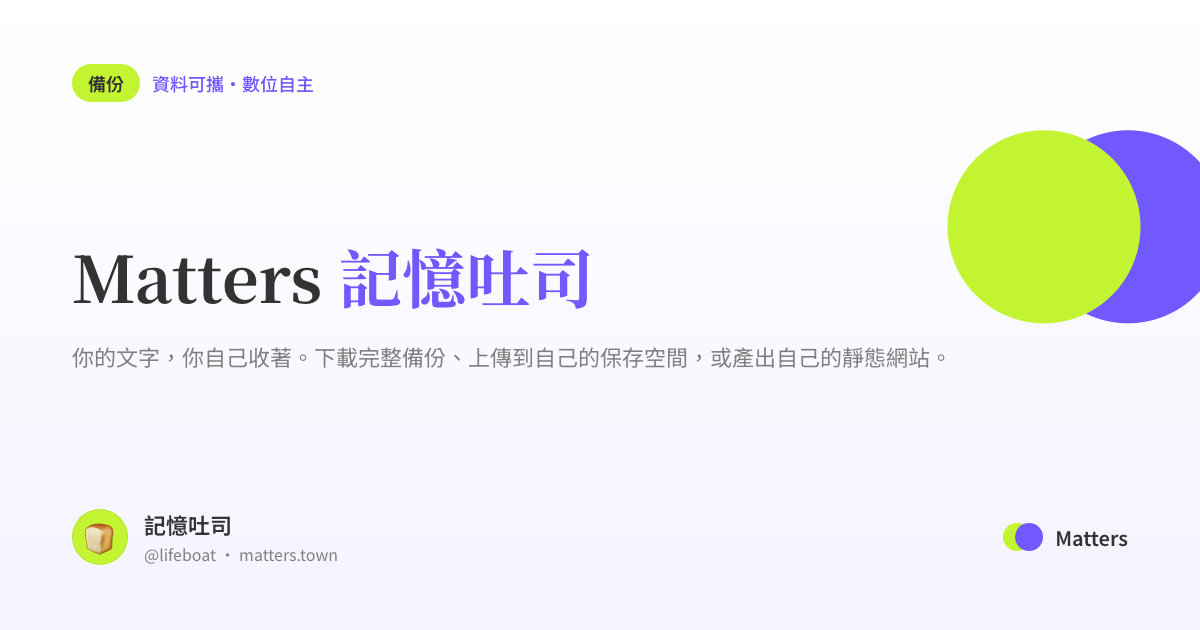
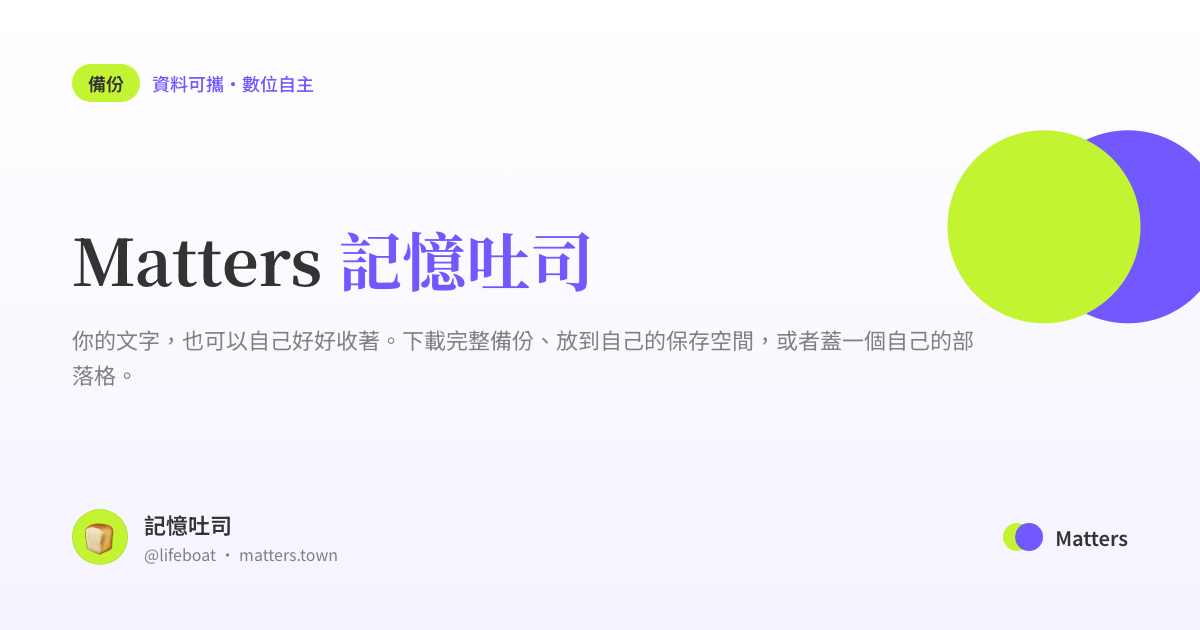
Update launch copy

Changed region(s): [[0.0617, 0.3619, 0.8325, 0.6333]]

diff --git a/packages/landing/src/index.html b/packages/landing/src/index.html
@@ -3,19 +3,19 @@
 <head>
   <meta charset="utf-8" />
   <meta name="viewport" content="width=device-width, initial-scale=1, viewport-fit=cover" />
-  <title>Matters 記憶吐司 · 你的文字，你自己收著</title>
-  <meta name="description" content="把你的 matters.town 文章備份成壓縮檔、放到自己的保存空間，或做成一個自己的網站。備份是好習慣，數位自主權的第一步。" />
+  <title>Matters 記憶吐司 · 你的文字，也可以自己好好收著</title>
+  <meta name="description" content="把你的 matters.town 文章備份成壓縮檔、放到自己的保存空間，或做成一個自己的部落格。備份是一種好習慣，數位自主權的第一步。" />
   <meta property="og:title" content="Matters 記憶吐司" />
-  <meta property="og:description" content="你的文字，你自己收著。一鍵備份你的 matters.town 文章。" />
+  <meta property="og:description" content="你的文字，也可以自己好好收著。一鍵備份你的 matters.town 文章。" />
   <meta property="og:type" content="website" />
   <meta property="og:url" content="https://lifeboat.matters.town" />
   <meta property="og:image" content="https://lifeboat.matters.town/assets/og-image.png" />
   <meta property="og:image:width" content="1200" />
   <meta property="og:image:height" content="630" />
-  <meta property="og:image:alt" content="Matters 記憶吐司：你的文字，你自己收著。" />
+  <meta property="og:image:alt" content="Matters 記憶吐司：你的文字，也可以自己好好收著。" />
   <meta name="twitter:card" content="summary_large_image" />
   <meta name="twitter:title" content="Matters 記憶吐司" />
-  <meta name="twitter:description" content="你的文字，你自己收著。一鍵備份你的 matters.town 文章。" />
+  <meta name="twitter:description" content="你的文字，也可以自己好好收著。一鍵備份你的 matters.town 文章。" />
   <meta name="twitter:image" content="https://lifeboat.matters.town/assets/og-image.png" />
   <link rel="canonical" href="https://lifeboat.matters.town" />
   <link rel="icon" type="image/svg+xml" href="./assets/favicon.svg" />
@@ -43,34 +43,34 @@
   <main>
     <section class="hero">
       <div class="wrap">
-        <div class="kicker">Matters 記憶吐司 · Your writing, your copy</div>
+        <div class="kicker">Your writing matters</div>
         <h1>
           你的文字，<br />
-          <strong>你自己收著</strong>。
+          <strong>也可以自己好好收著</strong>。
         </h1>
         <p class="lede">
           Matters 記憶吐司是一個給 matters.town 寫作者的備份工具。<br />
-          你可以下載完整備份、放到自己的保存空間，或蓋一個自己的網站。
+          下載完整備份、放到自己的保存空間，或者蓋一個自己的部落格，都可以馬上完成。
         </p>
         <div class="cta-row">
           <a class="btn btn-primary" href="/app/?flow=a">🍞 立刻備份我的文章</a>
           <a class="btn btn-ghost" href="#flows">看三種方式</a>
         </div>
         <p class="microcopy">
-          全部在你的瀏覽器裡進行 · 不需要 Matters 登入 · 開源可檢查
+          全部都在你的瀏覽器裡進行 · 不需要 Matters 登入 · 開放原始碼
         </p>
       </div>
     </section>
 
     <section id="why" class="why">
       <div class="wrap">
-        <h2>備份是好習慣 🌿</h2>
+        <h2>備份是一種好習慣 🌿</h2>
         <div class="why-grid">
           <div>
             <div class="why-icon" aria-hidden="true">🪶</div>
             <h3>你寫的字，永遠是你的</h3>
             <p>
-              備份不是因為今天會出事，而是把作品多留一份在自己手上。
+              不是因為怕出事才需要備份，備份是把作品多留一份，放在自己手上。
               就像照片會存在手機和雲端，文章也可以有自己的副本。
             </p>
           </div>
@@ -86,8 +86,8 @@
             <div class="why-icon" aria-hidden="true">🛟</div>
             <h3>明天的 plan B</h3>
             <p>
-              不是因為今天有事，而是因為任何寫作者都該有一份隨身的備份。
-              先做起來，比之後才補做容易得多。
+              網際網路比想像中的脆弱，因此任何寫作者都該有一份備份。
+              先備起來，比之後才補救，容易得多。
             </p>
           </div>
         </div>
@@ -116,7 +116,7 @@
             <div class="flow-tag">B · 10 分鐘</div>
             <h3>放到自己的保存空間</h3>
             <p>
-              如果你想多留一份在線上，可以把分享頁和完整備份放到自己的 Pinata。
+              如果你想多留一份在線上，可以把分享頁和完整備份放到自己的分散式空間 Pinata。
             </p>
             <div class="flow-artifact">
               Pinata 是一個 IPFS 檔案保存服務；工具會一步一步帶你拿臨時門票。
@@ -126,9 +126,9 @@
 
           <a class="flow-card" href="/app/?flow=c">
             <div class="flow-tag">C · 5–10 分鐘</div>
-            <h3>蓋一個自己的站</h3>
+            <h3>蓋一個自己的部落格</h3>
             <p>
-              把文章做成一包網站檔案，拖到 Cloudflare 後按 Deploy，就會有自己的文章站。
+              把文章做成一包網站檔案，拖到 Cloudflare 後按 Deploy，就會有自己的部落格。
             </p>
             <div class="flow-artifact">
               不需要 GitHub、不需要寫程式；Cloudflare 會給你一個可分享網址。
@@ -142,8 +142,8 @@
             <div class="flow-tag">補充 · 1 分鐘</div>
             <h3>還不想完整備份？先收文章地址簿</h3>
             <p>
-              這不是備份全文，而是把既有的 Matters 文章連結和 IPFS 連結打包下來。
-              如果你只是想先掌握「我的文章在哪裡」，可以從這一步開始。
+              如果不想打包全文也沒關係，Matters 本來就有免費替您將文章保存到備份檔案系統 IPFS。
+              你可以先把 Matters 連結與 IPFS 指紋連結打包下來，哪天網站失效了也不用怕。
             </p>
           </div>
           <a class="flow-helper-link" href="/app/?flow=d">保存文章地址簿 →</a>
@@ -263,7 +263,7 @@
             <strong>對外重新發布原文</strong>：請保留作者署名與原始來源連結，且不得商用。
           </li>
           <li>
-            <strong>改寫、續寫、翻譯、餵 AI 訓練 / 微調 / RAG</strong>：CC BY-NC-ND 與 arr
+            <strong>改寫、續寫、翻譯、餵 AI 訓練 / 微調 / RAG</strong>：CC BY-NC-ND 與 All Rights Reserved
             授權的文章<strong>禁止</strong>；CC0 不受限。請逐篇確認。
           </li>
         </ul>
@@ -279,8 +279,8 @@
         <h2>透明 · 可驗證 · 你說了算</h2>
         <ul class="trust-list">
           <li><strong>完全開源</strong>：<a href="https://github.com/thematters/matters-lifeboat" rel="noopener">thematters/matters-lifeboat</a></li>
-          <li><strong>在你的瀏覽器裡完成</strong>：抓取、整理、打包都在你的分頁裡進行</li>
-          <li><strong>不保存你的資料</strong>：我們沒有資料庫可以存你的文章或門票</li>
+          <li><strong>在你的瀏覽器裡完成</strong>：抓取、整理、打包都在你的分頁裡進行，不用擔心平台監控</li>
+          <li><strong>資料可攜</strong>：我們認為資料可以無痛轉移到不同平台，是市民的基本權利</li>
           <li><strong>臨時門票不留存</strong>：Pinata 的門票只活在這個分頁，關掉就清空</li>
           <li><strong>也適合交給 AI agent</strong>：下載檔會附上機器可讀的操作說明</li>
         </ul>

diff --git a/packages/app/index.html b/packages/app/index.html
@@ -4,18 +4,18 @@
     <meta charset="UTF-8" />
     <meta name="viewport" content="width=device-width, initial-scale=1" />
     <title>Matters 記憶吐司</title>
-    <meta name="description" content="把你的 matters.town 文章下載成完整備份、放到自己的保存空間，或做成自己的網站。" />
+    <meta name="description" content="把你的 matters.town 文章下載成完整備份、放到自己的保存空間，或做成自己的部落格。" />
     <meta property="og:title" content="Matters 記憶吐司" />
-    <meta property="og:description" content="你的文字，你自己收著。一鍵備份你的 matters.town 文章。" />
+    <meta property="og:description" content="你的文字，也可以自己好好收著。一鍵備份你的 matters.town 文章。" />
     <meta property="og:type" content="website" />
     <meta property="og:url" content="https://lifeboat.matters.town/app/" />
     <meta property="og:image" content="https://lifeboat.matters.town/assets/og-image.png" />
     <meta property="og:image:width" content="1200" />
     <meta property="og:image:height" content="630" />
-    <meta property="og:image:alt" content="Matters 記憶吐司：你的文字，你自己收著。" />
+    <meta property="og:image:alt" content="Matters 記憶吐司：你的文字，也可以自己好好收著。" />
     <meta name="twitter:card" content="summary_large_image" />
     <meta name="twitter:title" content="Matters 記憶吐司" />
-    <meta name="twitter:description" content="你的文字，你自己收著。一鍵備份你的 matters.town 文章。" />
+    <meta name="twitter:description" content="你的文字，也可以自己好好收著。一鍵備份你的 matters.town 文章。" />
     <meta name="twitter:image" content="https://lifeboat.matters.town/assets/og-image.png" />
     <link rel="icon" type="image/svg+xml" href="/app/favicon.svg" />
     <link rel="stylesheet" href="/matters-ds/tokens.css" />

diff --git a/packages/app/src/flows/FlowA.tsx b/packages/app/src/flows/FlowA.tsx
@@ -100,7 +100,7 @@ export function FlowA({ session, setSession, onGotoB, onGotoC, onBack }: Props) 
 
       <div className="card">
         <h2>🍞 備份流程</h2>
-        <p>輸入你或任何 Matters 帳號，會整理所有公開文章和圖片，打包成一個壓縮檔。</p>
+        <p>輸入你的 Matters 帳號，會整理所有公開文章和圖片，打包成一個壓縮檔。</p>
 
         <div style={{ marginBottom: 12 }}>
           <TextField
@@ -111,7 +111,7 @@ export function FlowA({ session, setSession, onGotoB, onGotoC, onBack }: Props) 
             onKeyDown={(e) => e.key === "Enter" && !running && void run()}
             helperText={
               <>
-                支援 <code>@mashbean</code>、<code>mashbean</code>、或整條 matters.town 網址
+                我們支援比如 <code>@mashbean</code>、<code>mashbean</code> 這類 ID、或整條 matters.town 網址
               </>
             }
           />
@@ -195,7 +195,7 @@ export function FlowA({ session, setSession, onGotoB, onGotoC, onBack }: Props) 
           </div>
 
           <div className="callout success" style={{ marginTop: 20 }}>
-            <strong>🌿 備份是好習慣。</strong>
+            <strong>🌿 備份是一種好習慣。</strong>
             你可以之後隨時再回來跑一次，每次都會是一份全新、當下狀態的快照。
           </div>
         </div>

diff --git a/packages/core/src/zip.ts b/packages/core/src/zip.ts
@@ -174,9 +174,9 @@ function buildReadme(m: Manifest, failures: Array<{ url: string; error: string }
     `- \`https://ipfs.io/ipfs/<cid>/\``,
     ``,
     `**要先做最輕量保存，可用 Matters 記憶吐司的「文章地址簿」流程產生一張 IPFS 連結清單。`,
-    `要多放一份到線上保存空間，則用 Pinata 流程，把可分享的文章地址頁和完整備份 ZIP 一起上傳到你自己的 Pinata public IPFS。**`,
+    `要多放一份到線上保存空間，則用 Pinata 流程，把可分享的文章地址頁和完整備份 ZIP 一起上傳到你自己的分散式空間 Pinata。**`,
     ``,
-    `## 做成自己的網站`,
+    `## 做成自己的部落格`,
     ``,
     `最簡單的方式：把本 zip 上傳到 [Matters 記憶吐司架站流程](https://lifeboat.matters.town/app/?flow=c)，`,
     `產出純 HTML/CSS 的 \`site.zip\`。解壓縮後把整個資料夾拖到 Cloudflare Workers & Pages 的 Upload your static files 即可，`,
@@ -253,7 +253,7 @@ function buildAgentInstructions(m: Manifest): string {
     `## 給使用者的白話說明（你可以複述）`,
     ``,
     `- 這份 zip 是你的 matters 文章的完整備份，**無需任何雲端服務**即可本機瀏覽（用任意 Markdown 閱讀器開 \`posts/\` 裡任一檔）`,
-    `- 若你想做一個屬於自己的網站，告訴我「請幫我用這份備份部署到 Cloudflare Pages」`,
+    `- 若你想做一個屬於自己的部落格，告訴我「請幫我用這份備份部署到 Cloudflare Pages」`,
     `- 若你只想先保存文章地址，告訴我「請幫我產生 文章地址簿」`,
     `- 若你想讓這些文章在 IPFS 上更好分享與保存，告訴我「請幫我把文章地址頁和 backup.zip 上傳到 Pinata」`,
     ``,

diff --git a/packages/app/src/flows/FlowD.tsx b/packages/app/src/flows/FlowD.tsx
@@ -85,8 +85,8 @@ export function FlowD({ onBack }: Props) {
       <div className="card">
         <h2>🔖 保存文章地址簿</h2>
         <p>
-          如果你現在不想下載完整文章與圖片，可以先保存一份很小的「文章地址簿」。
-          它會列出每篇文章的 Matters 原文連結，以及可點開的 IPFS 連結。
+          如果不想打包全文也沒關係，Matters 本來就有免費替您將文章保存到備份檔案系統 IPFS。
+          你可以先把 Matters 連結與 IPFS 指紋連結打包下來，哪天網站失效了也不用怕。
         </p>
         <div className="trust">
           <strong>這不是完整備份：</strong>

diff --git a/packages/app/src/App.tsx b/packages/app/src/App.tsx
@@ -44,7 +44,7 @@ export function App() {
             <span className="lifeboat-name">記憶吐司</span>
           </div>
           <div className="app-subtitle">
-            你的文字，你自己收著 · Your writing, in your own hands
+            你的文字，也可以自己好好收著 · Your writing matters
           </div>
         </div>
         <a

diff --git a/packages/app/src/components/BackupGate.tsx b/packages/app/src/components/BackupGate.tsx
@@ -89,7 +89,7 @@ export function BackupGate({ title, reason, onComplete, initialUsername = "", ct
             onKeyDown={(e) => e.key === "Enter" && !running && !done && void run()}
             helperText={
               <>
-                支援 <code>@mashbean</code>、<code>mashbean</code>、或整條 matters.town 網址
+                我們支援比如 <code>@mashbean</code>、<code>mashbean</code> 這類 ID、或整條 matters.town 網址
               </>
             }
           />

diff --git a/packages/app/src/components/LicenseNotice.tsx b/packages/app/src/components/LicenseNotice.tsx
@@ -30,7 +30,7 @@ export function LicenseNotice() {
             <strong>對外重新發布原文</strong>：請保留作者署名與來源連結，且不得商用。
           </li>
           <li>
-            <strong>改寫、續寫、翻譯、餵 AI 訓練</strong>：CC BY-NC-ND 與 arr 授權的文章
+            <strong>改寫、續寫、翻譯、餵 AI 訓練</strong>：CC BY-NC-ND 與 All Rights Reserved 授權的文章
             <strong>禁止</strong>；CC0 不受限。
           </li>
         </ul>

diff --git a/packages/app/src/flows/FlowB.tsx b/packages/app/src/flows/FlowB.tsx
@@ -42,7 +42,7 @@ export function FlowB({ session, setSession, onBack }: Props) {
         </button>
         <BackupGate
           title="⚓ 多放一份：先備份再上傳"
-          reason="先做完整備份，再產生一張可分享的文章地址頁，一起上傳到你的 Pinata。第一步是輸入 Matters 帳號。"
+          reason="先做完整備份，再產生一張可分享的文章地址頁，一起上傳到你的分散式空間 Pinata。第一步是輸入 Matters 帳號。"
           onComplete={(zip) => setSession({ ...session, zip, user: { userName: zip.manifest.source.userName } as any })}
           ctaLabel="繼續設定 Pinata 臨時門票 →"
         />

diff --git a/packages/app/src/flows/FlowC.tsx b/packages/app/src/flows/FlowC.tsx
@@ -37,7 +37,7 @@ export function FlowC({ session, setSession, onBack }: Props) {
           ← 回到選擇
         </button>
         <BackupGate
-          title="🏝️ 做成自己的網站：先備份再產出網站包"
+          title="🏝️ 蓋一個自己的部落格：先備份再產出網站包"
           reason="把備份整理成一個可直接拖到 Cloudflare 的網站資料夾。第一步是抓下備份，輸入 Matters 帳號開始。"
           onComplete={(zip) => setSession({ ...session, zip, user: { userName: zip.manifest.source.userName } as any })}
           ctaLabel="繼續打包成網站 →"

diff --git a/README.md b/README.md
@@ -2,7 +2,7 @@
 
 **給 matters.town 寫作者的開源備份工具。**
 
-> 你的文字，你自己收著。備份不是因為今天會出事，而是因為創作者本來就該握有自己的副本。
+> 你的文字，也可以自己好好收著。備份是一種好習慣，創作者本來就該握有自己的副本。
 
 網站版：<https://lifeboat.matters.town>
 
@@ -21,26 +21,24 @@
 
 ### ⚓ B. 放到自己的保存空間
 
-如果你想多留一份在線上，可以把兩個檔案上傳到自己的 Pinata：
+如果你想多留一份在線上，可以把兩個檔案上傳到自己的分散式空間 Pinata：
 
 - 一張可以打開、可以分享的文章地址頁
 - 一份完整備份 ZIP
 
 Pinata 會給你一串很長的臨時門票，正式名稱叫 JWT。記憶吐司只在這個瀏覽器分頁裡使用它，關掉分頁就清掉。
 
-### 🏝️ C. 蓋一個自己的站
+### 🏝️ C. 蓋一個自己的部落格
 
-把文章做成一包純靜態網站檔案。
+把文章做成一包純靜態部落格檔案。
 到 Cloudflare 選 **Upload your static files**，把解壓後的資料夾拖上去，最後按 **Deploy**。
 
 不需要 GitHub、不需要寫程式、不需要 build command。
 
 ### 補充：文章地址簿
 
-如果你還不想下載完整備份，可以先保存一份很小的文章地址簿。
-它只整理既有 Matters 文章連結和 IPFS 連結，不包含全文和圖片。
-
-這適合先把「我的文章在哪裡」收在自己手上，之後再補做完整備份、Pinata 保存或架站。
+如果不想打包全文也沒關係，Matters 本來就有免費替您將文章保存到備份檔案系統 IPFS。
+你可以先把 Matters 連結與 IPFS 指紋連結打包下來，哪天網站失效了也不用怕。
 
 ---
 
@@ -62,7 +60,7 @@ Matters 文章本來就有 IPFS 地址；記憶吐司把這些地址、完整備
 
 如果要交給 AI agent，可以直接說：
 
-> 請用 Matters 記憶吐司幫我備份 matters 用戶名 XXX。先下載完整備份；如果我要線上保存，再引導我用 Pinata；如果我要架站，再產出 Cloudflare 可上傳的網站包。
+> 請用 Matters 記憶吐司幫我備份 matters 用戶名 XXX。先下載完整備份；如果我要線上保存，再引導我用 Pinata；如果我要架站，再產出 Cloudflare 可上傳的部落格網站包。
 
 ---
 

diff --git a/AGENT.md b/AGENT.md
@@ -181,7 +181,7 @@ URL 參數：
 預設行為：
 
 - 先產生一張可分享的文章地址頁。
-- 上傳文章地址頁到使用者自己的 Pinata。
+- 上傳文章地址頁到使用者自己的分散式空間 Pinata。
 - 再上傳完整 `backup.zip` 到同一個 Pinata。
 - 完成頁會列出兩個 gateway URL：一個方便分享，一個是完整備份。
 
@@ -191,7 +191,7 @@ URL 參數：
 - `pinByHash` 不是預設流程，因為部分免費帳號會回 `PAID_FEATURE_ONLY`。
 - JWT 只存在瀏覽器分頁內；關掉分頁就清掉。用完也可以回 Pinata 刪除 API key。
 
-## 流程 C · 蓋一個自己的站
+## 流程 C · 蓋一個自己的部落格
 
 入口：<https://lifeboat.matters.town/app/?flow=c>
 